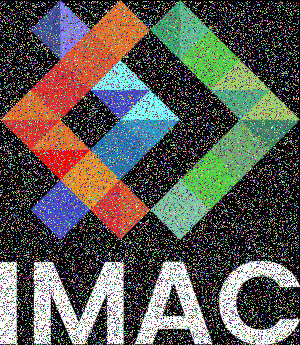
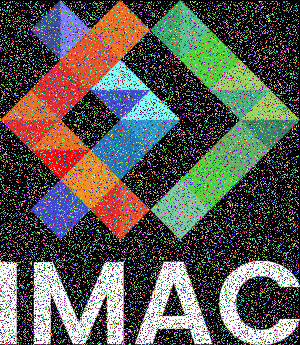
Autres essais de matrices pour la convolution

diff --git a/src/main_lison.cpp b/src/main_lison.cpp
@@ -591,4 +591,62 @@ void main_lison()
     image.save("output_l/convolution.png");
 }
 
+//Tentative avec différentes matrices : 
+
+{
+    std::vector<std::vector<float>> matrix_emboss {
+        {-2.f, -1.f, 0.f},
+        {-1.f, 1.f, 1.f},
+        {0.f, 1.f, 2.f}
+    };
+    std::vector<std::vector<float>> matrix_outline {
+        {-1.f, -1.f, -1.f},
+        {-1.f, 8.f, -1.f},
+        {-1.f, -1.f, -1.f}
+    };
+    std::vector<std::vector<int>> matrix_sharpen {
+        {0, -1, 0},
+        {-1, 5, -1},
+        {0, -1, 0}
+    };
+
+    sil::Image logo {"images/logo.png"};
+    sil::Image image {logo};
+    int Total{0};
+    for (std::vector<int> line : matrix_sharpen)
+    {
+        for (int nb : line)
+        {
+            Total += nb;
+        }
+    }
+    for(int i {0}; i<matrix_sharpen.size(); i++){
+        
+    }
+    int coordx {0};
+    int coordy {0};
+    for(int x {0}; x<image.width(); x++){
+        for(int y {0}; y<image.height(); y++){
+            glm::vec3 couleur {0};
+            for(int i {-(static_cast<int>(matrix_sharpen.size())/2)}; i<(static_cast<int>(matrix_sharpen.size())); i++){
+                for(int j {-(static_cast<int>(matrix_sharpen.size())/2)}; j<(static_cast<int>(matrix_sharpen[0].size())); j++){
+                    coordx = x+i;
+                    coordy = y+i;
+                    if(coordx>0 && coordx<image.width() && coordy>0 && coordy<image.height() && j+static_cast<int>(matrix_sharpen[0].size())/2<matrix_sharpen[0].size() && i+static_cast<int>(matrix_sharpen.size())/2<matrix_sharpen.size()){ //
+                        couleur = image.pixel(coordx, coordy)*static_cast<float>(matrix_sharpen[i+static_cast<int>(matrix_sharpen.size())/2 ][j+static_cast<int>(matrix_sharpen[0].size())/2]);   //+static_cast<int>(kernel.size())/2    //+static_cast<int>(kernel[0].size())/2
+                    }
+                    else {
+                        image.pixel(x, y) += glm::vec3(0); 
+                    }
+                }
+            }
+            if(Total!=0){
+                couleur=couleur/static_cast<float>(Total);
+            }
+            image.pixel(x, y) = couleur;
+        }
+    }
+    image.save("output_l/sharpen_essai.png");
+}
+
 }
